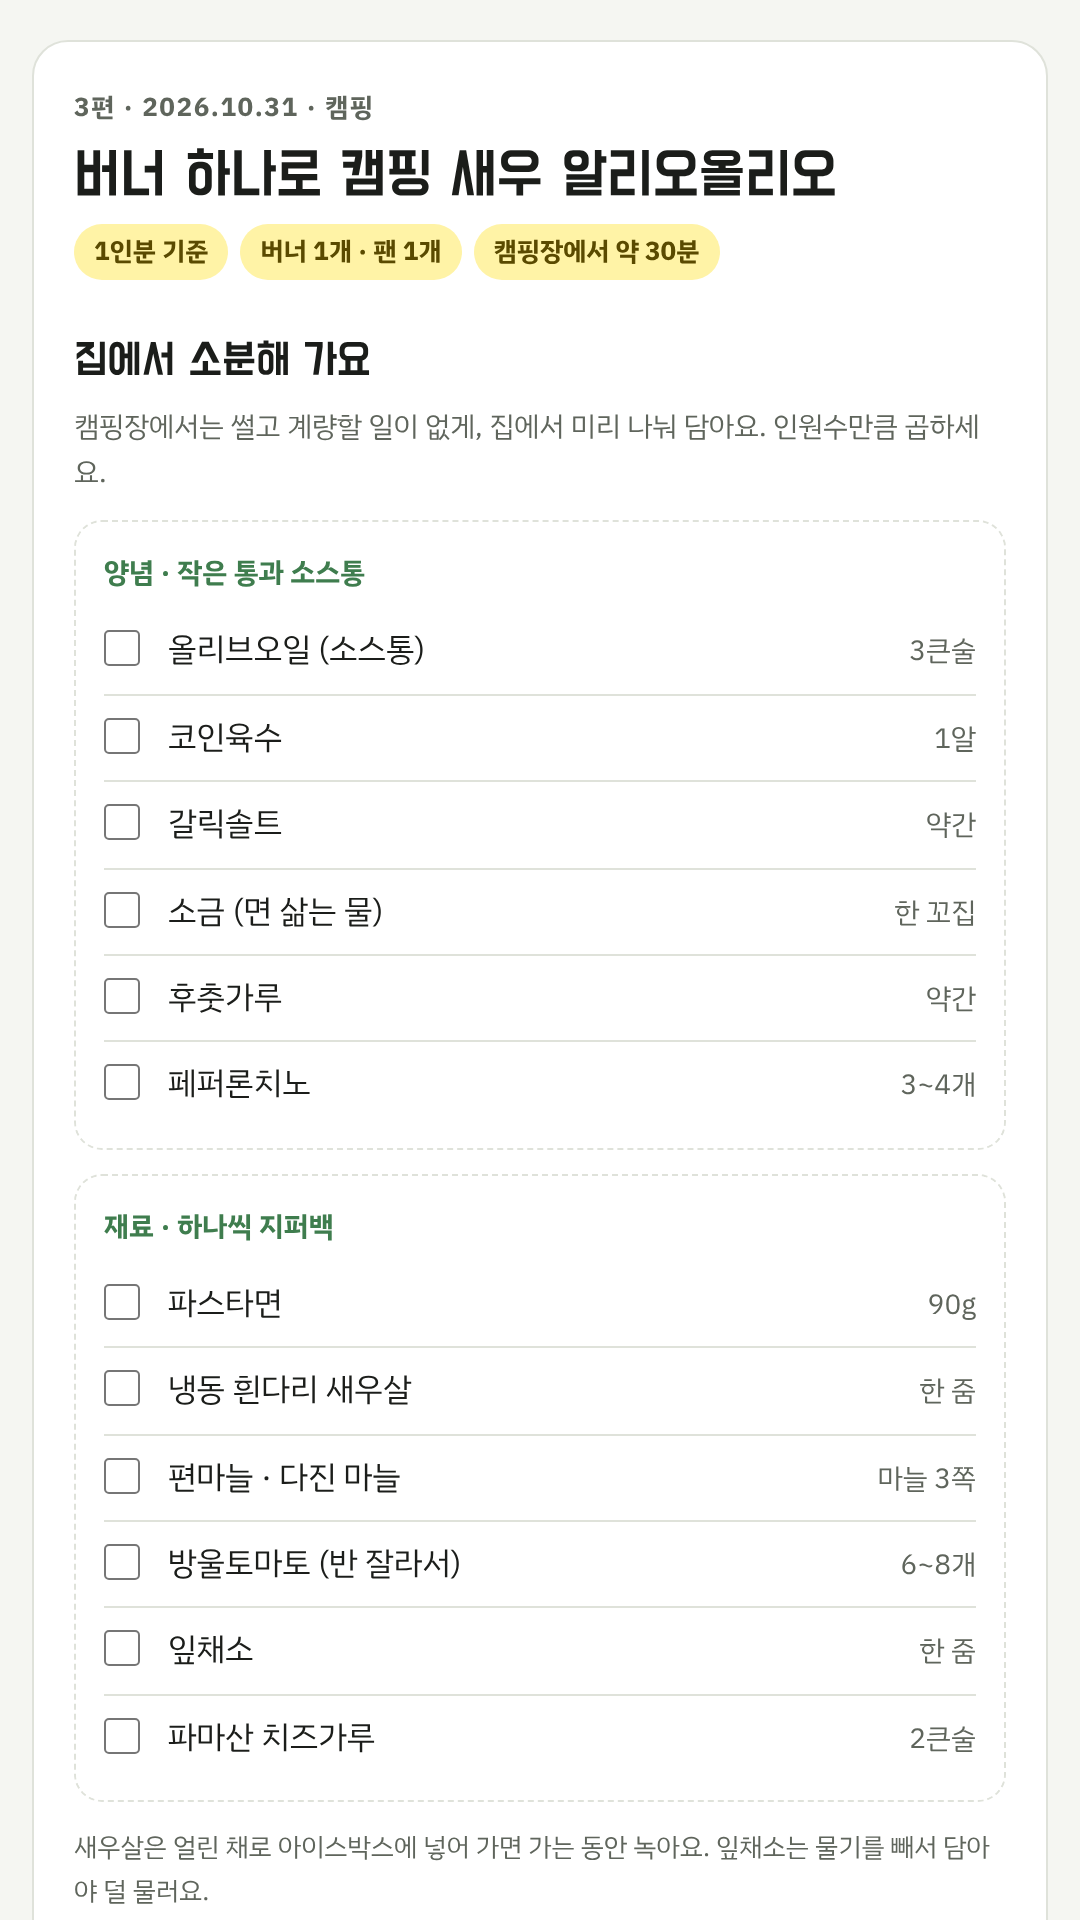
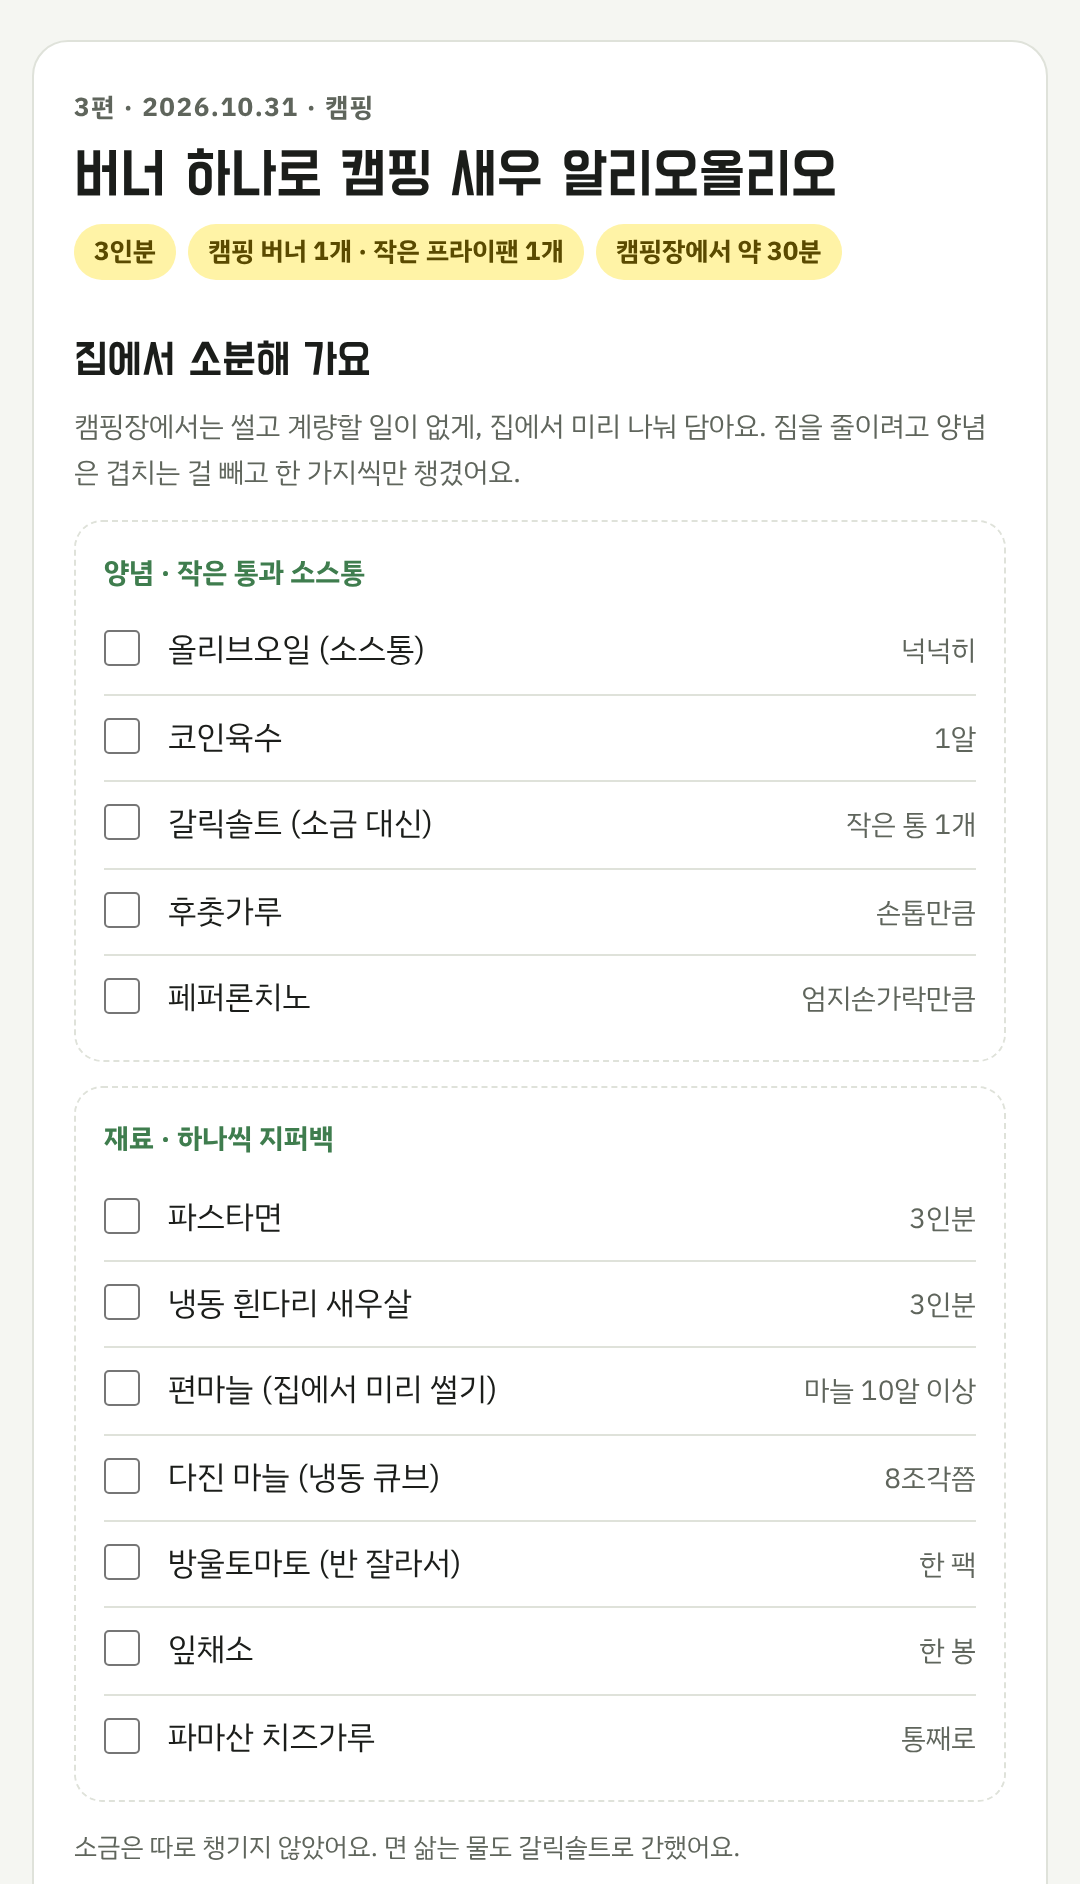
레시피 노트 3편: 3인분 실제 소분량, 원래 레시피와 다르게 한 이유(캠핑 버너 불꽃·참치액 없음·짐 줄이기), DM 이미지 3장
Claude-Session: https://claude.ai/code/session_012UocE6JM8eEVdgTpcg6qNH

diff --git a/store/cooking_recipe_notes.html b/store/cooking_recipe_notes.html
@@ -52,7 +52,8 @@ ol.steps li{counter-increment:s;display:grid;grid-template-columns:30px 1fr;gap:
 ol.steps li::before{content:counter(s);width:28px;height:28px;border-radius:50%;background:var(--brand);color:var(--brand-ink);font-weight:700;font-size:14px;display:grid;place-items:center;font-variant-numeric:tabular-nums}
 .swap{background:var(--leaf-soft);border-radius:14px;padding:14px 16px;display:flex;flex-direction:column;gap:6px}
 .swap b{color:var(--leaf);font-size:14px}
-.swap ul{margin:0;padding-left:18px}
+.swap ul{margin:0;padding-left:18px;display:flex;flex-direction:column;gap:8px}
+.swap strong{color:var(--ink)}
 details{border-top:1px solid var(--line);padding-top:14px}
 details>summary{cursor:pointer;font-weight:700;list-style:none;display:flex;justify-content:space-between;gap:12px}
 details>summary::-webkit-details-marker{display:none}
@@ -85,45 +86,45 @@ html{scroll-behavior:smooth}
     <div class="ep-head">
       <span class="ep-no">3편 · 2026.10.31 · 캠핑</span>
       <h2 id="t3">버너 하나로 캠핑 새우 알리오올리오</h2>
-      <div class="meta"><span>1인분 기준</span><span>버너 1개 · 팬 1개</span><span>캠핑장에서 약 30분</span></div>
+      <div class="meta"><span>3인분</span><span>캠핑 버너 1개 · 작은 프라이팬 1개</span><span>캠핑장에서 약 30분</span></div>
     </div>
 
     <section aria-labelledby="pack3">
       <div>
         <h3 id="pack3">집에서 소분해 가요</h3>
-        <p class="sub">캠핑장에서는 썰고 계량할 일이 없게, 집에서 미리 나눠 담아요. 인원수만큼 곱하세요.</p>
+        <p class="sub">캠핑장에서는 썰고 계량할 일이 없게, 집에서 미리 나눠 담아요. 짐을 줄이려고 양념은 겹치는 걸 빼고 한 가지씩만 챙겼어요.</p>
       </div>
       <div class="packs">
         <div class="pack">
           <b>양념 · 작은 통과 소스통</b>
           <ul>
-            <li><label><input type="checkbox" id="p3-oil"><span>올리브오일 (소스통)</span><span class="amt">3큰술</span></label></li>
+            <li><label><input type="checkbox" id="p3-oil"><span>올리브오일 (소스통)</span><span class="amt">넉넉히</span></label></li>
             <li><label><input type="checkbox" id="p3-stock"><span>코인육수</span><span class="amt">1알</span></label></li>
-            <li><label><input type="checkbox" id="p3-garlicsalt"><span>갈릭솔트</span><span class="amt">약간</span></label></li>
-            <li><label><input type="checkbox" id="p3-salt"><span>소금 (면 삶는 물)</span><span class="amt">한 꼬집</span></label></li>
-            <li><label><input type="checkbox" id="p3-pepper"><span>후춧가루</span><span class="amt">약간</span></label></li>
-            <li><label><input type="checkbox" id="p3-chili"><span>페퍼론치노</span><span class="amt">3~4개</span></label></li>
+            <li><label><input type="checkbox" id="p3-garlicsalt"><span>갈릭솔트 (소금 대신)</span><span class="amt">작은 통 1개</span></label></li>
+            <li><label><input type="checkbox" id="p3-pepper"><span>후춧가루</span><span class="amt">손톱만큼</span></label></li>
+            <li><label><input type="checkbox" id="p3-chili"><span>페퍼론치노</span><span class="amt">엄지손가락만큼</span></label></li>
           </ul>
         </div>
         <div class="pack">
           <b>재료 · 하나씩 지퍼백</b>
           <ul>
-            <li><label><input type="checkbox" id="p3-pasta"><span>파스타면</span><span class="amt">90g</span></label></li>
-            <li><label><input type="checkbox" id="p3-shrimp"><span>냉동 흰다리 새우살</span><span class="amt">한 줌</span></label></li>
-            <li><label><input type="checkbox" id="p3-garlic"><span>편마늘 · 다진 마늘</span><span class="amt">마늘 3쪽</span></label></li>
-            <li><label><input type="checkbox" id="p3-tomato"><span>방울토마토 (반 잘라서)</span><span class="amt">6~8개</span></label></li>
-            <li><label><input type="checkbox" id="p3-leaf"><span>잎채소</span><span class="amt">한 줌</span></label></li>
-            <li><label><input type="checkbox" id="p3-cheese"><span>파마산 치즈가루</span><span class="amt">2큰술</span></label></li>
+            <li><label><input type="checkbox" id="p3-pasta"><span>파스타면</span><span class="amt">3인분</span></label></li>
+            <li><label><input type="checkbox" id="p3-shrimp"><span>냉동 흰다리 새우살</span><span class="amt">3인분</span></label></li>
+            <li><label><input type="checkbox" id="p3-garlic"><span>편마늘 (집에서 미리 썰기)</span><span class="amt">마늘 10알 이상</span></label></li>
+            <li><label><input type="checkbox" id="p3-mince"><span>다진 마늘 (냉동 큐브)</span><span class="amt">8조각쯤</span></label></li>
+            <li><label><input type="checkbox" id="p3-tomato"><span>방울토마토 (반 잘라서)</span><span class="amt">한 팩</span></label></li>
+            <li><label><input type="checkbox" id="p3-leaf"><span>잎채소</span><span class="amt">한 봉</span></label></li>
+            <li><label><input type="checkbox" id="p3-cheese"><span>파마산 치즈가루</span><span class="amt">통째로</span></label></li>
           </ul>
         </div>
       </div>
-      <p class="note">새우살은 얼린 채로 아이스박스에 넣어 가면 가는 동안 녹아요. 잎채소는 물기를 빼서 담아야 덜 물러요.</p>
+      <p class="note">소금은 따로 챙기지 않았어요. 면 삶는 물도 갈릭솔트로 간했어요.</p>
     </section>
 
     <section aria-labelledby="cook3">
       <h3 id="cook3">캠핑장에서 이 순서로</h3>
       <ol class="steps">
-        <li>팬에 물을 붓고 소금 한 꼬집, 파스타면부터 8분 삶아 건져 둬요.</li>
+        <li>팬에 물을 붓고 갈릭솔트를 조금 넣어 파스타면부터 8분 삶아 건져 둬요.</li>
         <li>새우살은 살짝 데쳐서 한쪽에 둬요.</li>
         <li>팬에 올리브오일을 두르고 편마늘·다진 마늘을 데워 향을 내요.</li>
         <li>새우를 넣고 단단해질 때까지 볶다가 코인육수 1알을 넣어요.</li>
@@ -133,17 +134,19 @@ html{scroll-behavior:smooth}
       </ol>
     </section>
 
-    <div class="swap">
-      <b>원래 레시피에서 바꾼 점</b>
+    <section class="swap" aria-labelledby="why3">
+      <b id="why3">원래 레시피와 다르게 한 이유</b>
       <ul>
-        <li>면은 물에 먼저 삶았어요</li>
-        <li>참치액 대신 코인육수와 갈릭솔트</li>
-        <li>페퍼론치노로 살짝 매콤하게, 마지막에 파마산 치즈가루</li>
+        <li><strong>면과 새우를 따로 먼저 익혔어요.</strong> 캠핑 버너는 불꽃이 가운데에만 세게 올라와서 프라이팬 전체가 고르게 데워지지 않아요. 작은 팬에 3인분을 한꺼번에 넣으면 가장자리의 새우와 면이 덜 익을 수 있어요.</li>
+        <li><strong>참치액 대신 코인육수.</strong> 집에 참치액이 없었어요. 코인육수 한 알이면 감칠맛을 대신할 수 있어요.</li>
+        <li><strong>소금 대신 갈릭솔트.</strong> 캠핑 짐은 가벼워야 해서 소금과 갈릭솔트 중 하나만 챙겼어요. 소분해 간 마늘이 모자랄 때도 갈릭솔트가 마늘 맛을 채워 줘요.</li>
+        <li><strong>파마산 치즈가루</strong>는 원래 레시피의 치즈 그대로예요.</li>
       </ul>
-    </div>
+      <p class="note">큰 냄비에 불이 고르게 오르는 집 가스레인지라면 원래 레시피처럼 원팬으로 한 번에 끓여도 돼요. 불이 가운데만 세고 팬이 작은 캠핑 버너라면, 특히 여러 인분을 만들 때는 이 순서가 안전해요.</p>
+    </section>
 
     <details>
-      <summary>원래 레시피 보기 (쿡매치 「원팬 파스타」)</summary>
+      <summary>원래 레시피 보기 (쿡매치 「원팬 파스타」, 1인분)</summary>
       <div class="inner">
         <p class="ings">파스타면 90g · 마늘 3개 · 토마토 1개 · 새우 큰 사이즈 4마리 · 잎채소 약간 · 치즈 약간 · 올리브오일 3T · 물 500ml · 참치액 1T · 후춧가루 톡톡</p>
         <ol class="steps">
